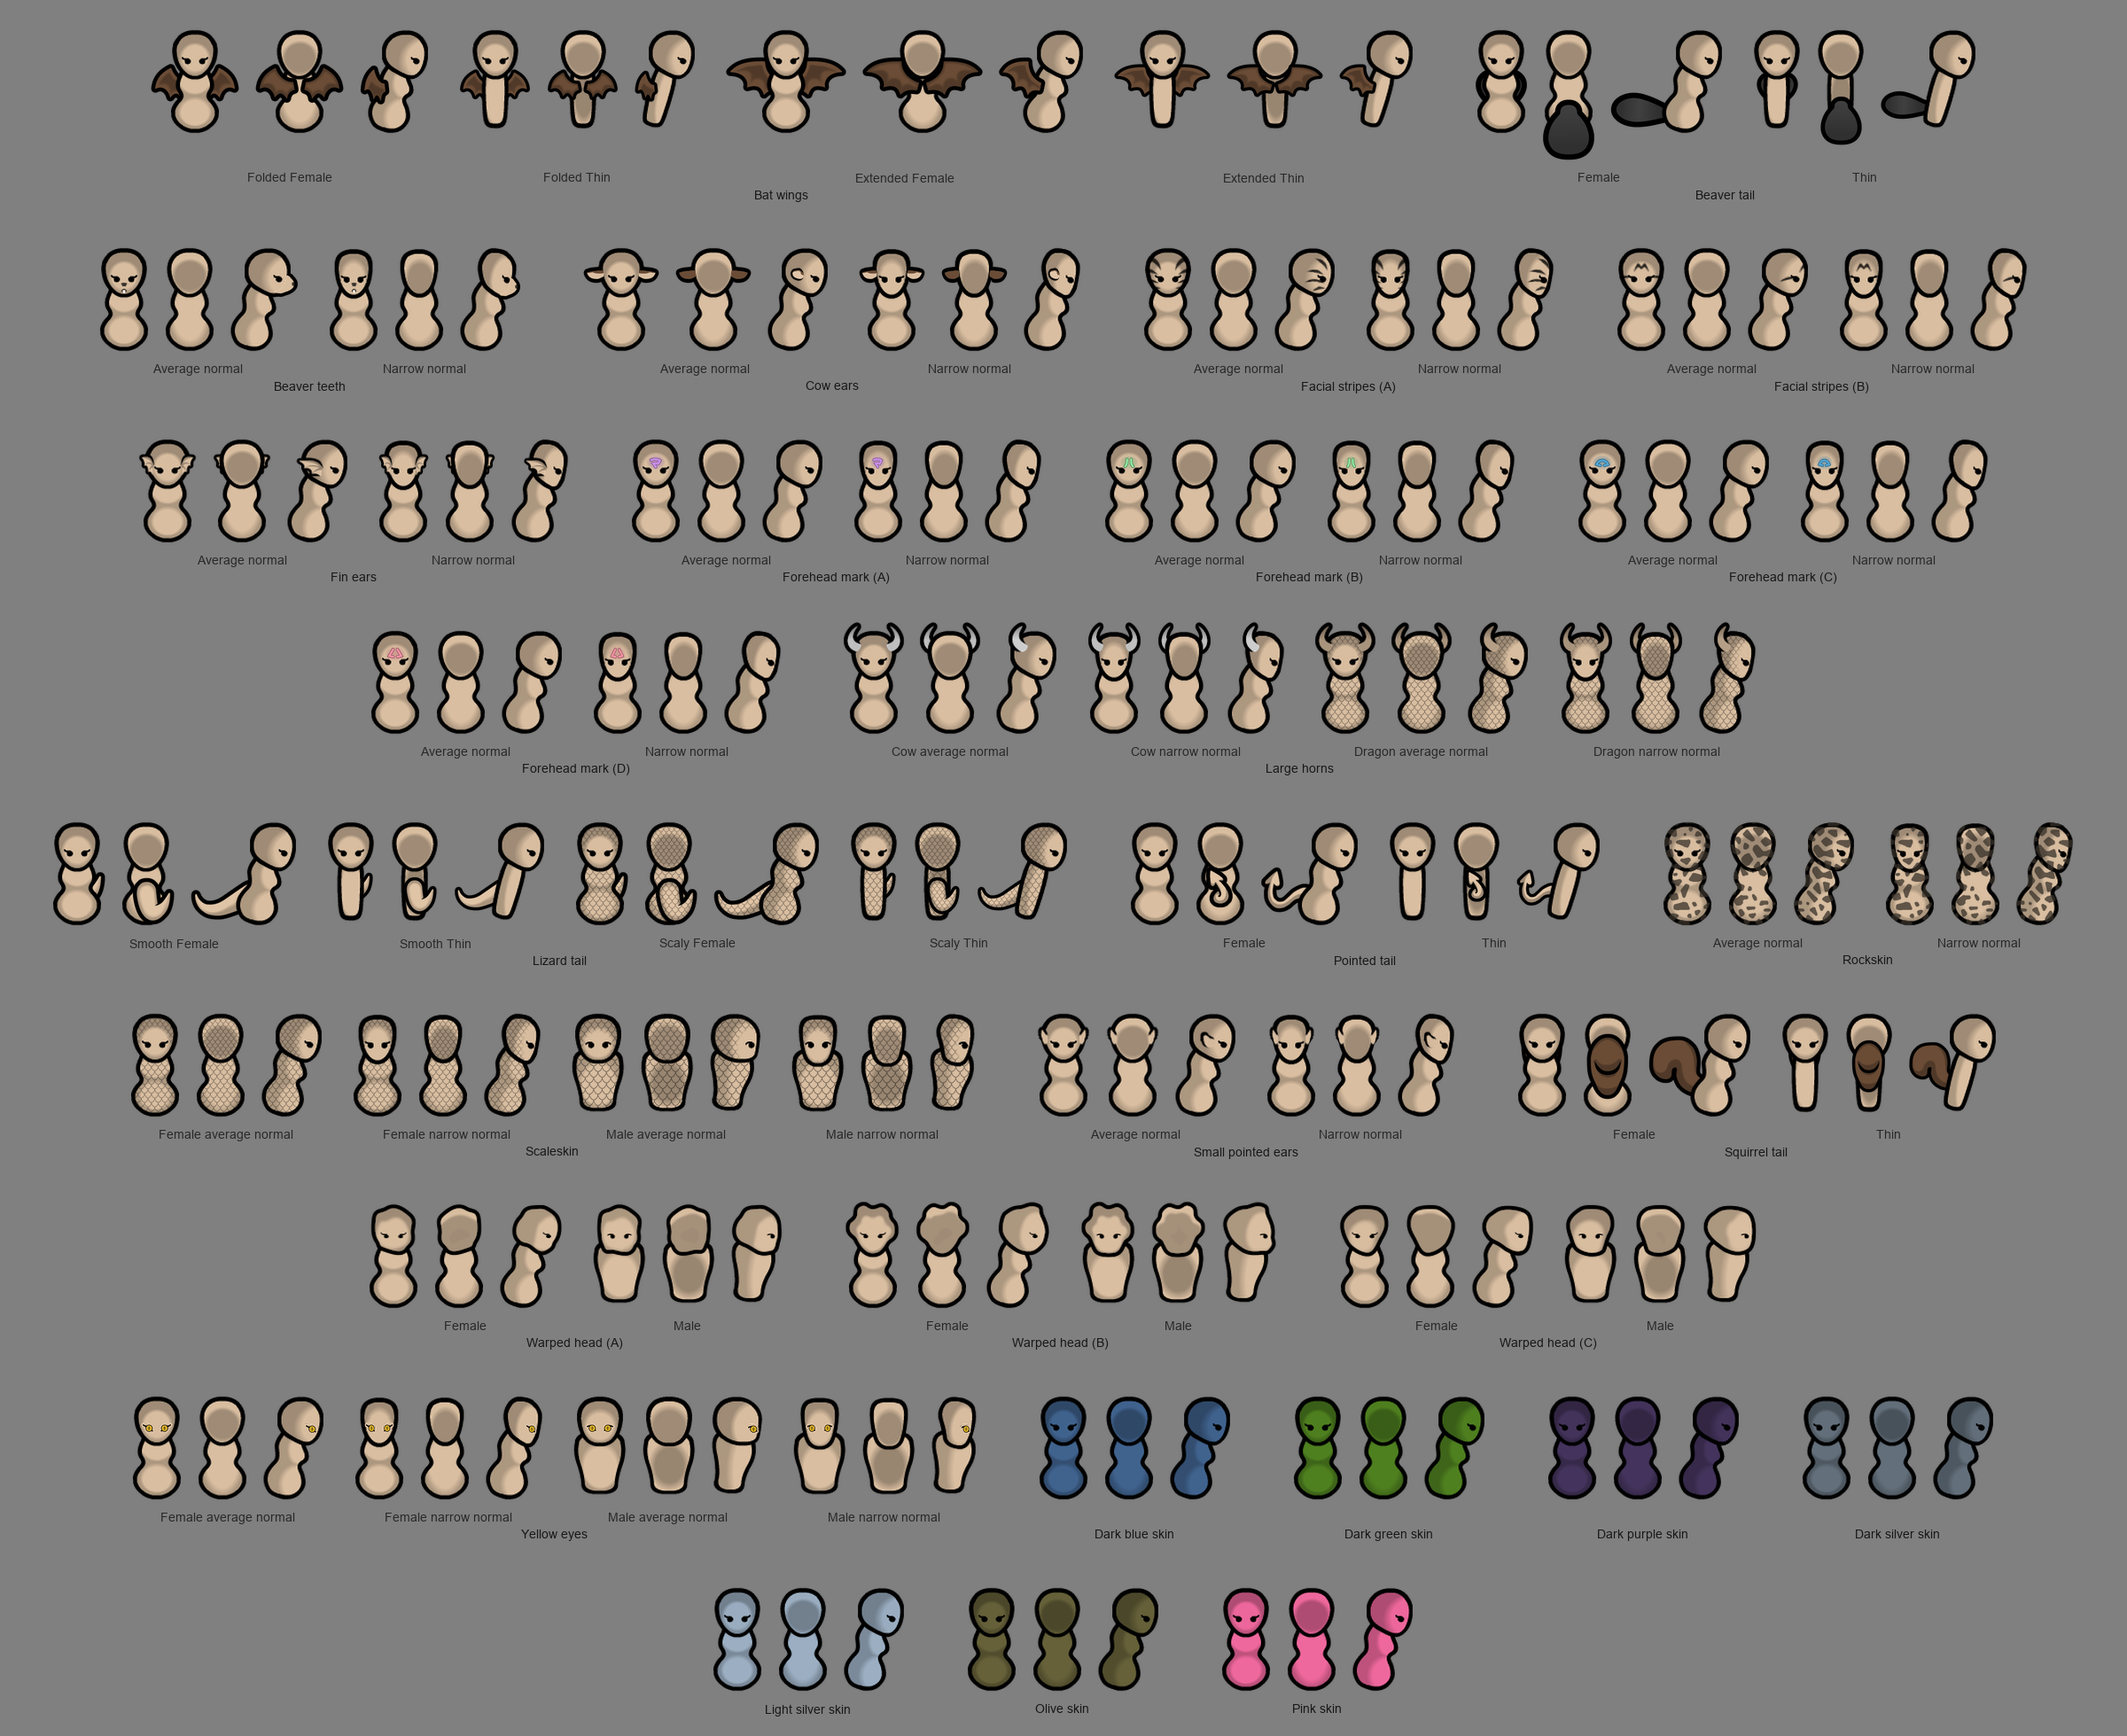
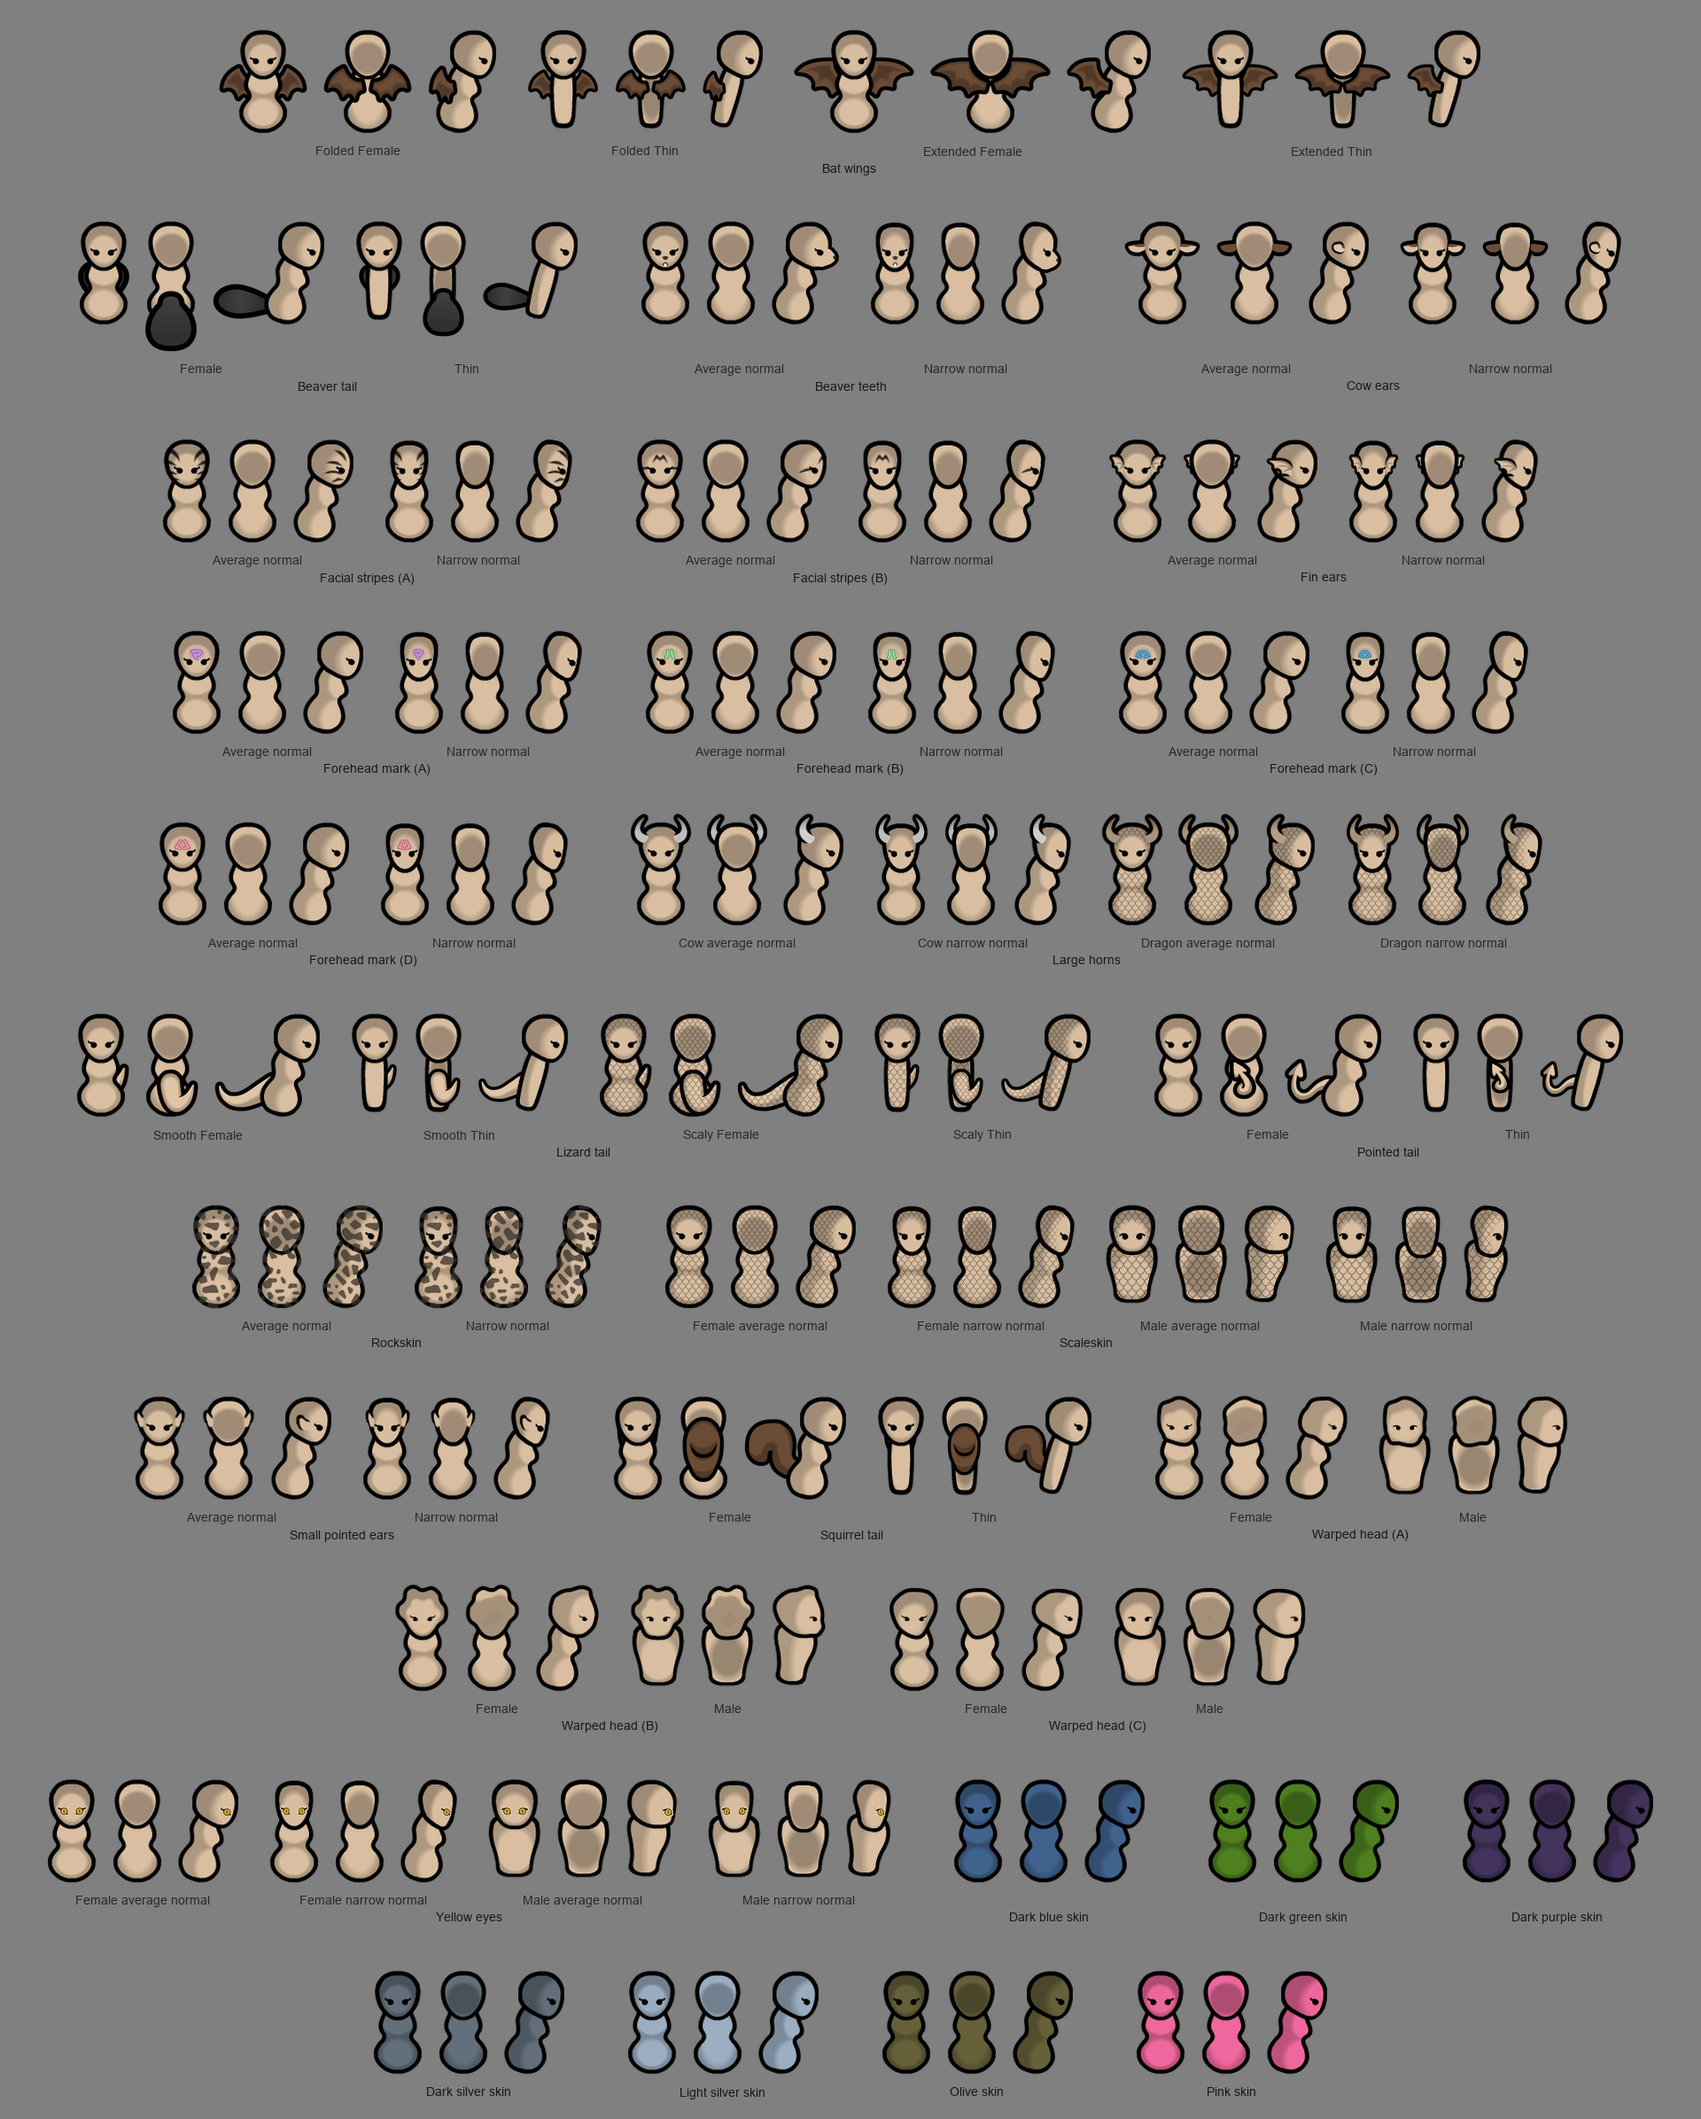
Change default cosmetic sheet width

diff --git a/Scripts/pawn_cosmetics/settings.py b/Scripts/pawn_cosmetics/settings.py
@@ -12,7 +12,7 @@ DEFAULT_OUTPUT = ROOT / "Art/Generated/pawn-cosmetics-sheet.png"
 GAME_DATA = Path("C:/Program Files (x86)/Steam/steamapps/common/RimWorld/Data")
 HEAD_SHAPES = ("Average_Normal", "Narrow_Normal")
 BODY_ATTACHMENT_TYPES = ("Female", "Thin")
-DEFAULT_WIDTH = 2400
+DEFAULT_WIDTH = 1920
 DEFAULT_PALETTE = Palette(skin=(0.88, 0.77, 0.65, 1.0), hair=(0.42, 0.30, 0.21, 1.0))
 
 # Keep these variants in one gene group, with captions keyed by XML debug label.
